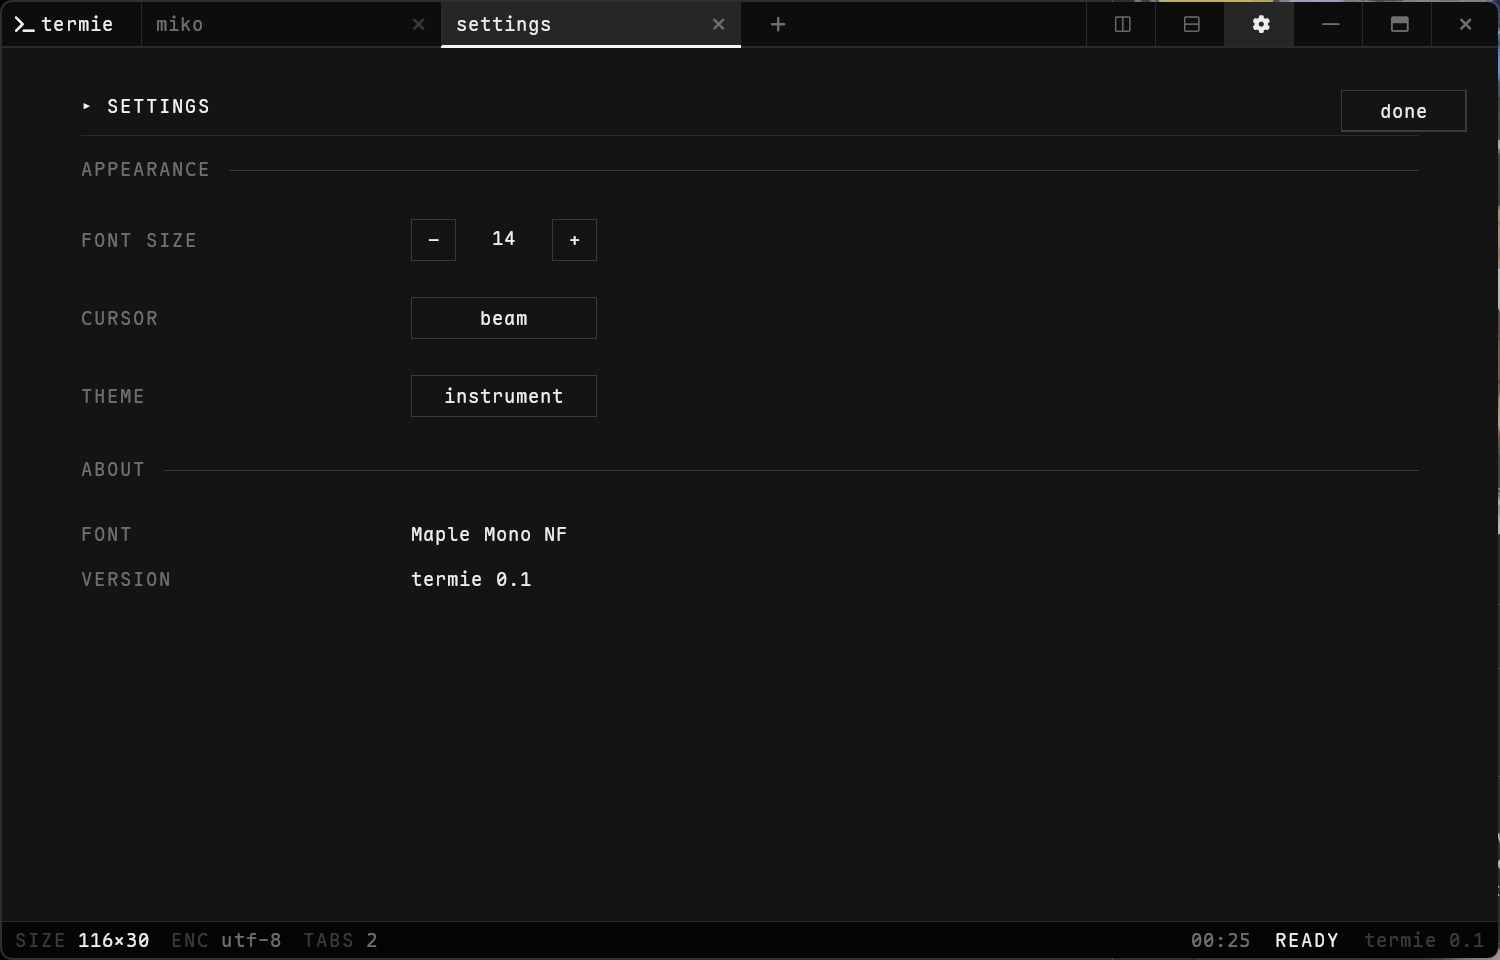
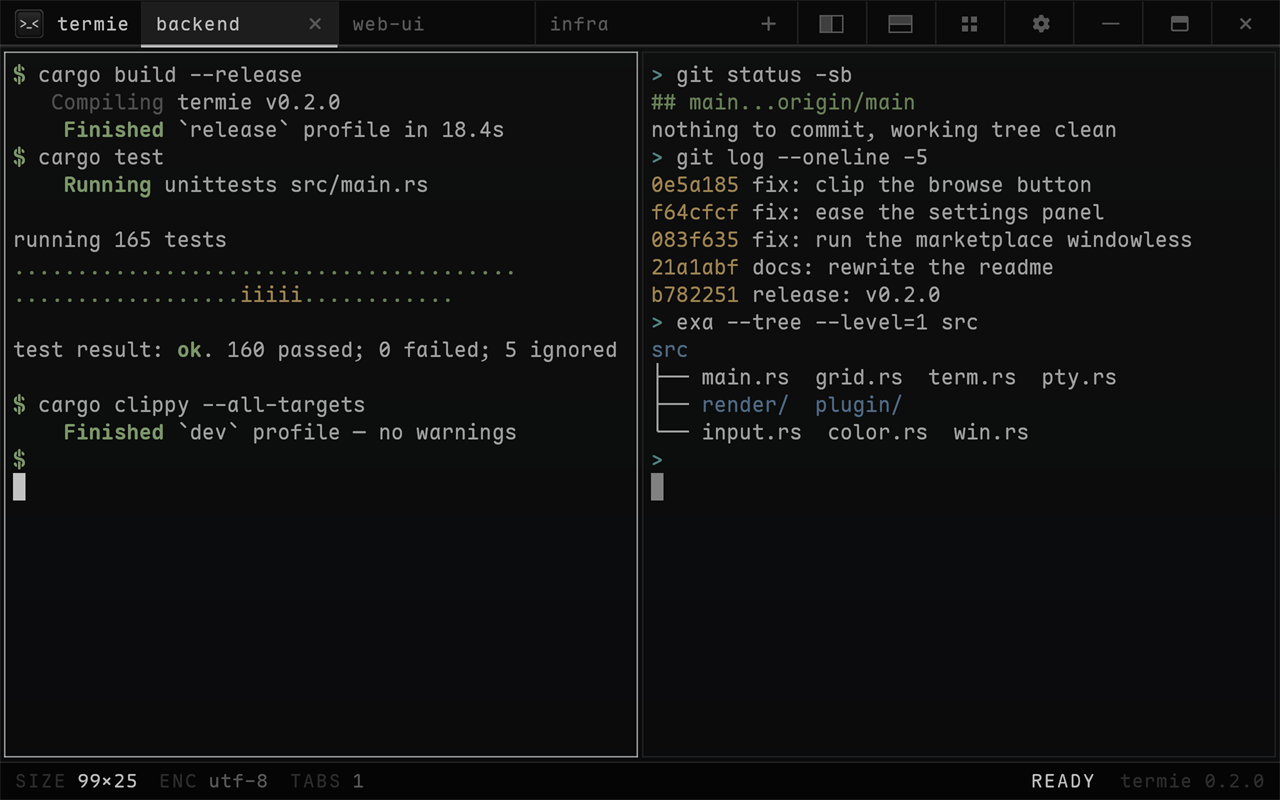
docs: add a screenshot to the readme

diff --git a/src/uiview.rs b/src/uiview.rs
@@ -135,8 +135,8 @@ pub fn maybe_run() -> bool {
     };
 
     let samples: [&[u8]; 2] = [
-        b"\x1b[1;32m$\x1b[0m cargo build --release\r\n   \x1b[2mCompiling\x1b[0m termie v0.1.0\r\n\x1b[33mwarning\x1b[0m: unused variable\r\n    \x1b[1;34m-->\x1b[0m src/main.rs:42\r\n\x1b[1;32m    Finished\x1b[0m in 21.8s\r\n",
-        b"\x1b[36m>\x1b[0m git diff\r\n\x1b[2mdiff --git a/src/main.rs\x1b[0m\r\n\r\n\x1b[32m+ added line\x1b[0m\r\n\x1b[31m- removed line\x1b[0m\r\n",
+        b"\x1b[1;32m$\x1b[0m cargo build --release\r\n\x1b[2m   Compiling\x1b[0m termie v0.2.0\r\n\x1b[1;32m    Finished\x1b[0m `release` profile in 18.4s\r\n\x1b[1;32m$\x1b[0m cargo test\r\n\x1b[1;32m    Running\x1b[0m unittests src/main.rs\r\n\r\nrunning 165 tests\r\n\x1b[32m........................................\x1b[0m\r\n\x1b[32m..................\x1b[0m\x1b[33miiiii\x1b[0m\x1b[32m............\x1b[0m\r\n\r\ntest result: \x1b[1;32mok\x1b[0m. 160 passed; 0 failed; 5 ignored\r\n\r\n\x1b[1;32m$\x1b[0m cargo clippy --all-targets\r\n\x1b[1;32m    Finished\x1b[0m `dev` profile \xe2\x80\x94 no warnings\r\n\x1b[1;32m$\x1b[0m \x1b[7m \x1b[0m\r\n",
+        b"\x1b[36m>\x1b[0m git status -sb\r\n\x1b[32m## main...origin/main\x1b[0m\r\nnothing to commit, working tree clean\r\n\x1b[36m>\x1b[0m git log --oneline -5\r\n\x1b[33m0e5a185\x1b[0m fix: clip the browse button\r\n\x1b[33mf64cfcf\x1b[0m fix: ease the settings panel\r\n\x1b[33m083f635\x1b[0m fix: run the marketplace windowless\r\n\x1b[33m21a1abf\x1b[0m docs: rewrite the readme\r\n\x1b[33mb782251\x1b[0m release: v0.2.0\r\n\x1b[36m>\x1b[0m exa --tree --level=1 src\r\n\x1b[34msrc\x1b[0m\r\n\xe2\x94\x9c\xe2\x94\x80\xe2\x94\x80 main.rs  grid.rs  term.rs  pty.rs\r\n\xe2\x94\x9c\xe2\x94\x80\xe2\x94\x80 \x1b[34mrender/\x1b[0m  \x1b[34mplugin/\x1b[0m\r\n\xe2\x94\x94\xe2\x94\x80\xe2\x94\x80 input.rs  color.rs  win.rs\r\n\x1b[36m>\x1b[0m \x1b[7m \x1b[0m\r\n",
     ];
 
     let mut terms: Vec<Terminal> = Vec::new();

diff --git a/README.md b/README.md
@@ -2,6 +2,8 @@
 
 A fast, lightweight GPU terminal multiplexer for Windows — tabs, split panes, and many shells across many repos in one window.
 
+![termie](shot.png)
+
 - downloads: [GitHub Releases](https://github.com/lintowe/termie/releases) (Windows x64 zip)
 - plugins: registry at [`lintowe/termie-plugins`](https://github.com/lintowe/termie-plugins)
 - license: MIT OR Apache-2.0